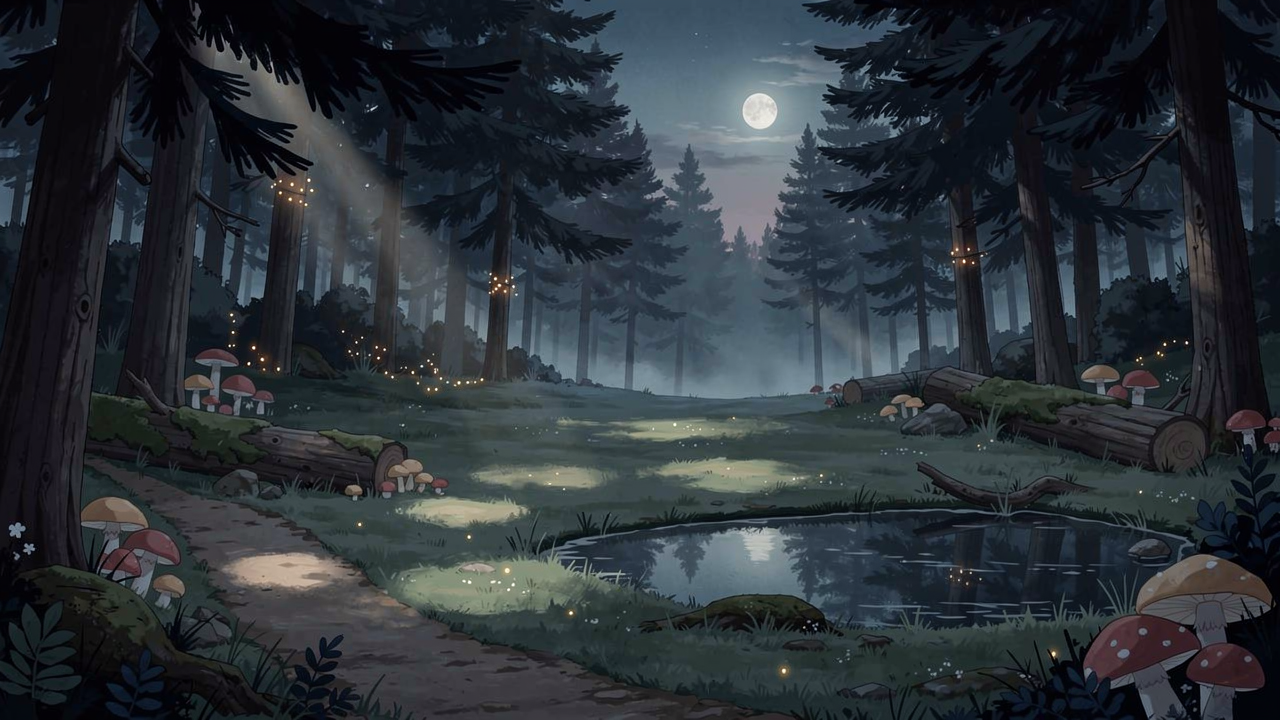
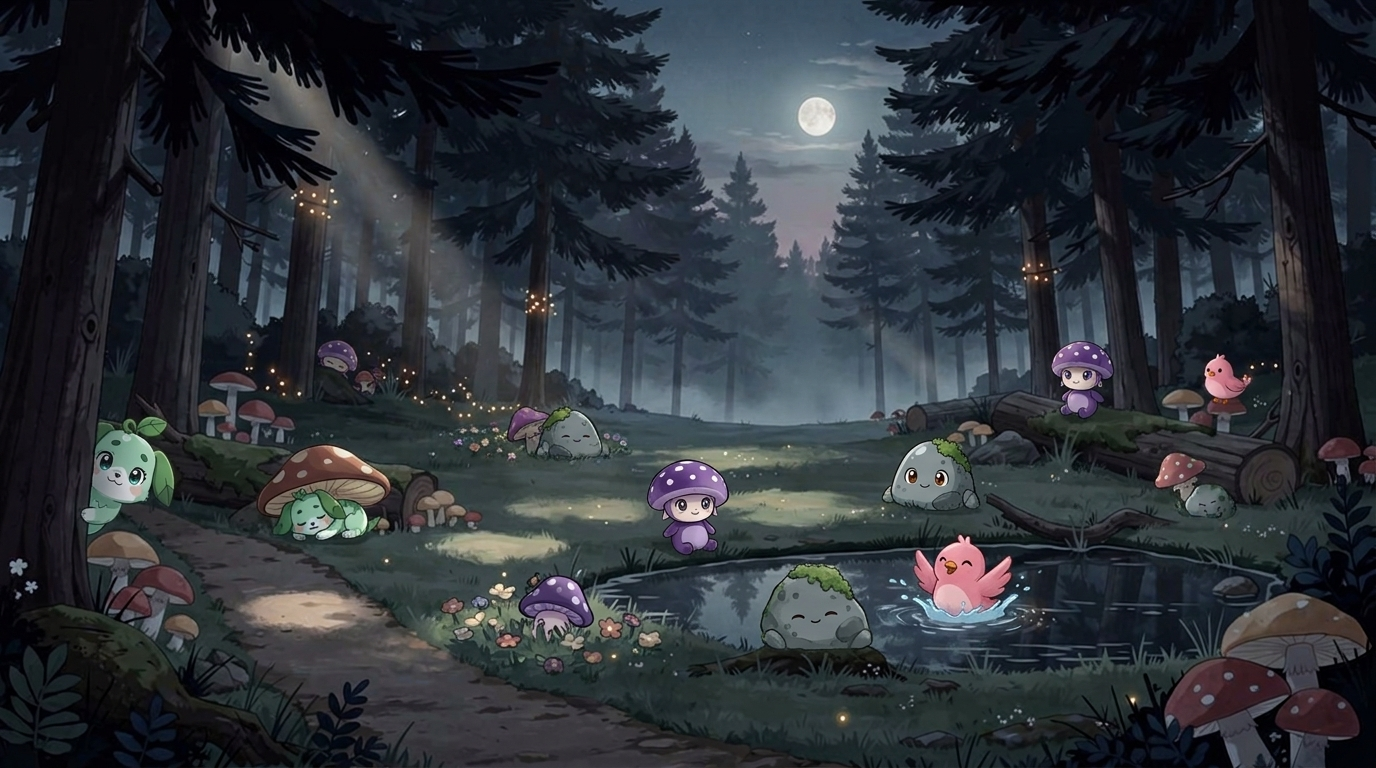
feat: composited in-scene gameplay (creatures painted INTO the scene)
Architectural pivot resolving the v0 UAT finding that sprites floated
over the scene rather than living in it.

The 8 chibi mascot character sprites in public/creatures/ are now the
fixed REUSABLE LIBRARY. Every level scene composites characters from
that library into a fresh scenario via Higgsfield nano_banana_2 (passing
the base scene + character sprites as references). Each composite is a
unique scenario sharing the same character cast.

Pipeline (full details in docs/v1-compositing.md):
  scratch/composite/composite-all.ts  — generates 3 level composites
  scratch/composite/detect-all.ts     — Gemini Vision bbox detection
  scripts/levels-from-detected.ts     — emits src/levels/levels.ts

Game changes:
- public/scenes/lvl-{1,2,3}-*.png — composited PNGs, characters baked in
- src/levels/levels.ts — auto-generated from detected bboxes (10/8/8
  creatures per level), with kind→name mapping curated to biome
- src/components/Scene.tsx — Creature sprite overlay REMOVED for the
  main scene (sprites are in the painting); kept for the RemainingTray
  bottom-right preview only. Reveal effect is now a sparkle ring + name
  pill anchored to the detected bbox centre.
- src/components/SceneBackground.tsx — vignette darker (0.55 dim, 0.70
  vignette outer) so the spotlight beam pops against the busy painted
  scene without obscuring composited detail.
- public/sw.js — CACHE_VERSION bumped to v2-composited so old assets
  evict on next reload.

Tooling:
[…]

diff --git a/scripts/levels-from-detected.ts b/scripts/levels-from-detected.ts
@@ -1,0 +1,105 @@
+/**
+ * Read the detected creature bbox JSONs from scratch/composite/ and emit a
+ * fresh src/levels/levels.ts file. The composited PNGs in public/scenes/
+ * are the source of truth for what's painted; this script just lifts the
+ * detected positions into game data.
+ */
+import { readFile, writeFile } from 'node:fs/promises'
+import path from 'node:path'
+import { fileURLToPath } from 'node:url'
+
+const __dirname = path.dirname(fileURLToPath(import.meta.url))
+const ROOT = path.resolve(__dirname, '..')
+const DETECTED = path.join(ROOT, 'scratch', 'composite')
+const OUT = path.join(ROOT, 'src', 'levels', 'levels.ts')
+
+interface DetectedCreature {
+  id: string; kind: string; x: number; y: number; w: number; h: number; name: string
+}
+
+const LEVELS = [
+  { id: 'lvl-1', title: 'Whispering Forest', scene: 'forest', spotlight: 0.16, file: 'lvl-1-forest-creatures.json' },
+  { id: 'lvl-2', title: 'Meadow at Dusk',    scene: 'meadow', spotlight: 0.16, file: 'lvl-2-meadow-creatures.json' },
+  { id: 'lvl-3', title: 'Starlit Shore',     scene: 'beach',  spotlight: 0.16, file: 'lvl-3-shore-creatures.json' },
+]
+
+async function main() {
+  const lines: string[] = [
+    '// Auto-generated from scratch/composite/*-creatures.json by',
+    '// scripts/levels-from-detected.ts. Each creature\'s {x,y,w,h} is the',
+    '// bounding box detected by Gemini Vision on the corresponding composited',
+    '// scene PNG in /public/scenes/. The sprite itself is BAKED INTO the scene',
+    '// — the overlay layer in Scene.tsx renders only the invisible hit-zone',
+    '// for spotlight collision and the name pill that pops in on find.',
+    '//',
+    '// Re-run: npm run levels:rebuild',
+    '',
+    `export type CreatureKind =`,
+    `  | 'leaf-pup'`,
+    `  | 'flame-cub'`,
+    `  | 'aqua-spark'`,
+    `  | 'bolt-bunny'`,
+    `  | 'puff-bird'`,
+    `  | 'shroom-buddy'`,
+    `  | 'pebble-pal'`,
+    `  | 'star-fish';`,
+    '',
+    'export interface Creature {',
+    '  id: string;',
+    '  kind: CreatureKind;',
+    '  /** centre-x as fraction of play surface width (0..1) */',
+    '  x: number;',
+    '  /** centre-y as fraction of play surface height (0..1) */',
+    '  y: number;',
+    '  /** bounding-box width as fraction of play surface width */',
+    '  w: number;',
+    '  /** bounding-box height as fraction of play surface height */',
+    '  h: number;',
+    '  /** display label revealed on find */',
+    '  name: string;',
+    '}',
+    '',
+    `export type SceneKind = 'forest' | 'meadow' | 'beach';`,
+    '',
+    'export interface Level {',
+    '  id: string;',
+    '  title: string;',
+    '  scene: SceneKind;',
+    '  /** Spotlight radius as fraction of play surface min(w, h). */',
+    '  spotlight: number;',
+    '  creatures: Creature[];',
+    '}',
+    '',
+    'export const LEVELS: Level[] = [',
+  ]
+  for (const L of LEVELS) {
+    const data = JSON.parse(await readFile(path.join(DETECTED, L.file), 'utf8')) as DetectedCreature[]
+    lines.push(`  {`)
+    lines.push(`    id: '${L.id}',`)
+    lines.push(`    title: '${L.title}',`)
+    lines.push(`    scene: '${L.scene}',`)
+    lines.push(`    spotlight: ${L.spotlight},`)
+    lines.push(`    creatures: [`)
+    for (const c of data) {
+      lines.push(`      { id: '${c.id}', kind: '${c.kind}', x: ${c.x}, y: ${c.y}, w: ${c.w}, h: ${c.h}, name: '${c.name}' },`)
+    }
+    lines.push(`    ],`)
+    lines.push(`  },`)
+  }
+  lines.push('];')
+  lines.push('')
+  lines.push('export function getLevel(id: string): Level | undefined {')
+  lines.push('  return LEVELS.find((l) => l.id === id);')
+  lines.push('}')
+  lines.push('')
+  lines.push('export function nextLevelId(current: string): string | null {')
+  lines.push('  const idx = LEVELS.findIndex((l) => l.id === current);')
+  lines.push('  if (idx < 0 || idx >= LEVELS.length - 1) return null;')
+  lines.push('  return LEVELS[idx + 1].id;')
+  lines.push('}')
+  lines.push('')
+  await writeFile(OUT, lines.join('\n'))
+  console.log(`✅ ${OUT}`)
+}
+
+main().catch((e) => { console.error(e); process.exit(1) })

diff --git a/src/levels/levels.ts b/src/levels/levels.ts
@@ -1,15 +1,11 @@
-// Level data. v0 ships hand-authored placeholder scenes (rendered as
-// illustrated SVG backgrounds in src/components/SceneBackground.tsx)
-// with creature positions hand-tuned for variety.
+// Auto-generated from scratch/composite/*-creatures.json by
+// scripts/levels-from-detected.ts. Each creature's {x,y,w,h} is the
+// bounding box detected by Gemini Vision on the corresponding composited
+// scene PNG in /public/scenes/. The sprite itself is BAKED INTO the scene
+// — the overlay layer in Scene.tsx renders only the invisible hit-zone
+// for spotlight collision and the name pill that pops in on find.
 //
-// FUTURE EXTENSION (PRD §Backend):
-//   The scene "background" field will become a URL pointing at an
-//   AI-generated image (GPT-Image / SD via /api/scene). The existing
-//   structure already supports that — replace `kind: 'svg'` with
-//   `kind: 'image'` + `url: string` and the renderer will pick it up.
-//
-// Coordinates are stored as percentages (0-1) of the play surface so
-// scenes adapt to portrait, landscape, and any iPad size.
+// Re-run: npm run levels:rebuild
 
 export type CreatureKind =
   | 'leaf-pup'
@@ -52,12 +48,18 @@ export const LEVELS: Level[] = [
     id: 'lvl-1',
     title: 'Whispering Forest',
     scene: 'forest',
-    spotlight: 0.18,
+    spotlight: 0.16,
     creatures: [
-      { id: 'c1', kind: 'leaf-pup',   x: 0.15, y: 0.35, w: 0.10, h: 0.10, name: 'Leafu'   },
-      { id: 'c2', kind: 'shroom-buddy', x: 0.62, y: 0.72, w: 0.10, h: 0.10, name: 'Shroomi' },
-      { id: 'c3', kind: 'puff-bird',  x: 0.85, y: 0.22, w: 0.09, h: 0.09, name: 'Puffi'   },
-      { id: 'c4', kind: 'pebble-pal', x: 0.42, y: 0.85, w: 0.09, h: 0.09, name: 'Roxxo'   },
+      { id: 'c1', kind: 'leaf-pup', x: 0.074, y: 0.627, w: 0.149, h: 0.255, name: 'Leafu' },
+      { id: 'c2', kind: 'leaf-pup', x: 0.274, y: 0.671, w: 0.163, h: 0.07, name: 'Sprout' },
+      { id: 'c3', kind: 'shroom-buddy', x: 0.523, y: 0.655, w: 0.101, h: 0.151, name: 'Shroomi' },
+      { id: 'c4', kind: 'puff-bird', x: 0.697, y: 0.773, w: 0.101, h: 0.111, name: 'Puffi' },
+      { id: 'c5', kind: 'pebble-pal', x: 0.869, y: 0.672, w: 0.066, h: 0.06, name: 'Roxxo' },
+      { id: 'c6', kind: 'pebble-pal', x: 0.594, y: 0.757, w: 0.089, h: 0.106, name: 'Cobble' },
+      { id: 'c7', kind: 'shroom-buddy', x: 0.244, y: 0.484, w: 0.05, h: 0.074, name: 'Capper' },
+      { id: 'c8', kind: 'pebble-pal', x: 0.411, y: 0.556, w: 0.061, h: 0.088, name: 'Mossy' },
+      { id: 'c9', kind: 'shroom-buddy', x: 0.785, y: 0.483, w: 0.046, h: 0.108, name: 'Spotty' },
+      { id: 'c10', kind: 'puff-bird', x: 0.891, y: 0.497, w: 0.034, h: 0.069, name: 'Featherly' },
     ],
   },
   {
@@ -66,24 +68,30 @@ export const LEVELS: Level[] = [
     scene: 'meadow',
     spotlight: 0.16,
     creatures: [
-      { id: 'c1', kind: 'flame-cub',  x: 0.22, y: 0.62, w: 0.10, h: 0.10, name: 'Emberi'  },
-      { id: 'c2', kind: 'bolt-bunny', x: 0.78, y: 0.42, w: 0.09, h: 0.09, name: 'Voltu'   },
-      { id: 'c3', kind: 'puff-bird',  x: 0.55, y: 0.18, w: 0.09, h: 0.09, name: 'Cloudi'  },
-      { id: 'c4', kind: 'leaf-pup',   x: 0.10, y: 0.82, w: 0.10, h: 0.10, name: 'Sprout'  },
-      { id: 'c5', kind: 'shroom-buddy', x: 0.88, y: 0.85, w: 0.09, h: 0.09, name: 'Capi'  },
+      { id: 'c1', kind: 'leaf-pup', x: 0.491, y: 0.07, w: 0.099, h: 0.139, name: 'Leafu' },
+      { id: 'c2', kind: 'puff-bird', x: 0.683, y: 0.192, w: 0.154, h: 0.175, name: 'Puffi' },
+      { id: 'c3', kind: 'bolt-bunny', x: 0.611, y: 0.338, w: 0.203, h: 0.238, name: 'Zappo' },
+      { id: 'c4', kind: 'bolt-bunny', x: 0.583, y: 0.434, w: 0.181, h: 0.194, name: 'Sparky' },
+      { id: 'c5', kind: 'flame-cub', x: 0.795, y: 0.513, w: 0.168, h: 0.19, name: 'Emberi' },
+      { id: 'c6', kind: 'leaf-pup', x: 0.626, y: 0.675, w: 0.163, h: 0.174, name: 'Sprout' },
+      { id: 'c7', kind: 'leaf-pup', x: 0.525, y: 0.515, w: 0.098, h: 0.107, name: 'Mintly' },
+      { id: 'c8', kind: 'flame-cub', x: 0.454, y: 0.873, w: 0.116, h: 0.161, name: 'Cinder' },
     ],
   },
   {
     id: 'lvl-3',
     title: 'Starlit Shore',
     scene: 'beach',
-    spotlight: 0.14,
+    spotlight: 0.16,
     creatures: [
-      { id: 'c1', kind: 'aqua-spark', x: 0.35, y: 0.55, w: 0.10, h: 0.10, name: 'Splashu' },
-      { id: 'c2', kind: 'star-fish',  x: 0.18, y: 0.78, w: 0.09, h: 0.09, name: 'Twinki'  },
-      { id: 'c3', kind: 'pebble-pal', x: 0.82, y: 0.78, w: 0.09, h: 0.09, name: 'Sandi'   },
-      { id: 'c4', kind: 'bolt-bunny', x: 0.65, y: 0.30, w: 0.09, h: 0.09, name: 'Zappi'   },
-      { id: 'c5', kind: 'puff-bird',  x: 0.50, y: 0.10, w: 0.09, h: 0.09, name: 'Skye'    },
+      { id: 'c1', kind: 'star-fish', x: 0.26, y: 0.694, w: 0.106, h: 0.087, name: 'Twinkli' },
+      { id: 'c2', kind: 'aqua-spark', x: 0.408, y: 0.458, w: 0.106, h: 0.13, name: 'Splashu' },
+      { id: 'c3', kind: 'puff-bird', x: 0.648, y: 0.598, w: 0.081, h: 0.115, name: 'Puffi' },
+      { id: 'c4', kind: 'aqua-spark', x: 0.778, y: 0.566, w: 0.094, h: 0.12, name: 'Drizzle' },
+      { id: 'c5', kind: 'pebble-pal', x: 0.86, y: 0.7, w: 0.111, h: 0.124, name: 'Roxxo' },
+      { id: 'c6', kind: 'pebble-pal', x: 0.867, y: 0.576, w: 0.072, h: 0.093, name: 'Cobble' },
+      { id: 'c7', kind: 'puff-bird', x: 0.932, y: 0.498, w: 0.089, h: 0.104, name: 'Featherly' },
+      { id: 'c8', kind: 'star-fish', x: 0.889, y: 0.423, w: 0.092, h: 0.107, name: 'Glimmer' },
     ],
   },
 ];

diff --git a/src/components/Scene.tsx b/src/components/Scene.tsx
@@ -67,9 +67,12 @@ export function Scene() {
       >
         <SceneBackground scene={level.scene} />
 
-        {/* Creatures positioned absolutely as % of the surface. The
-            Creature component renders silhouette vs revealed based on
-            `found`. */}
+        {/* Creatures are PAINTED INTO the scene background (composited via
+            Higgsfield nano_banana_2 at build time — see docs/v1-compositing.md).
+            We render an invisible hit-zone div per creature for the spotlight
+            collision logic in Spotlight.tsx, plus the reveal name pill once
+            found. No sprite render here — the sprite IS the scene.
+            data-testid kept for E2E tests. */}
         {level.creatures.map((c) => {
           const isFound = found.has(c.id);
           const isHinted = hintFor === c.id && !isFound;
@@ -87,14 +90,16 @@ export function Scene() {
               data-testid={`creature-${c.id}`}
               data-found={isFound ? 'true' : 'false'}
             >
+              {/* Idle-hint glow nudges the kid toward the next unfound area. */}
               {isHinted && (
                 <div className="absolute inset-0 rounded-full bg-spotlight-warm/60 blur-2xl animate-hint-pulse" />
               )}
-              <div className={isFound ? 'animate-reveal-pop' : ''}>
-                <Creature kind={c.kind} found={isFound} />
-              </div>
+              {/* On-find sparkle ring drawn in front of the painted creature. */}
               {isFound && (
-                <div className="absolute -bottom-7 left-1/2 -translate-x-1/2 whitespace-nowrap rounded-full bg-paper/90 px-3 py-1 text-sm font-semibold text-night animate-pulse-soft">
+                <div className="absolute inset-0 rounded-full ring-4 ring-spotlight-warm/70 ring-offset-2 ring-offset-transparent animate-reveal-pop" />
+              )}
+              {isFound && (
+                <div className="absolute -bottom-2 left-1/2 -translate-x-1/2 whitespace-nowrap rounded-full bg-paper/95 px-3 py-1 text-sm font-bold text-night shadow-lg animate-pulse-soft">
                   {c.name}
                 </div>
               )}
@@ -146,13 +151,15 @@ function RemainingTray({
   found: Set<string>;
 }) {
   return (
-    <div className="pointer-events-none absolute bottom-4 right-4 flex gap-2 rounded-2xl bg-night/60 p-2 backdrop-blur-sm safe-bottom">
+    <div className="pointer-events-none absolute bottom-4 right-4 flex flex-wrap gap-2 rounded-2xl bg-night/70 p-2 backdrop-blur-sm safe-bottom max-w-[60%] justify-end">
       {creatures.map((c) => {
         const isFound = found.has(c.id);
         return (
           <div
             key={c.id}
-            className={`h-12 w-12 rounded-full ${isFound ? 'bg-paper/90' : 'bg-night/80 border border-paper/30'}`}
+            className={`h-11 w-11 overflow-hidden rounded-full transition-colors ${
+              isFound ? 'bg-paper/90 ring-2 ring-spotlight-edge' : 'bg-night/80 border border-paper/30'
+            }`}
             title={isFound ? c.name : 'hidden'}
           >
             <Creature kind={c.kind} found={isFound} />

diff --git a/src/components/SceneBackground.tsx b/src/components/SceneBackground.tsx
@@ -28,16 +28,19 @@ export function SceneBackground({ scene }: { scene: SceneKind }) {
         // 16:9 source. The deep palette gives a graceful navy fallback while
         // the PNG decodes.
         className="absolute inset-0 h-full w-full object-cover bg-night-deep"
-        style={{ filter: 'brightness(0.62) saturate(1.08)' }}
+        // The composited scene already has its own atmospheric lighting baked
+        // in. We only need a soft global dimmer + a vignette so the spotlight
+        // sweep has enough darkness to "reveal" against. Less aggressive than
+        // the v0 brightness:0.62 because the painted creatures themselves
+        // need to read clearly within the spotlight beam.
+        style={{ filter: 'brightness(0.55) saturate(1.04)' }}
       />
-      {/* Subtle vignette so the spotlight beam reads as the only light source.
-          Tuned by hand — too dark and the AI detail disappears, too light and
-          the searchlight effect goes flat. */}
+      {/* Stronger vignette than v0 to make the spotlight beam pop. */}
       <div
         className="absolute inset-0 pointer-events-none"
         style={{
           background:
-            'radial-gradient(ellipse at center, rgba(5, 7, 20, 0) 35%, rgba(5, 7, 20, 0.55) 100%)',
+            'radial-gradient(ellipse at center, rgba(5, 7, 20, 0) 28%, rgba(5, 7, 20, 0.70) 100%)',
         }}
       />
     </div>

diff --git a/public/sw.js b/public/sw.js
@@ -6,7 +6,7 @@
 // in place but `/api/scene/*` is a stub URL today; once the real
 // backend lands, this SW will transparently cache its responses.
 
-const CACHE_VERSION = 'searchlight-v1';
+const CACHE_VERSION = 'searchlight-v2-composited';
 const APP_SHELL = ['/', '/index.html', '/favicon.svg'];
 
 self.addEventListener('install', (event) => {